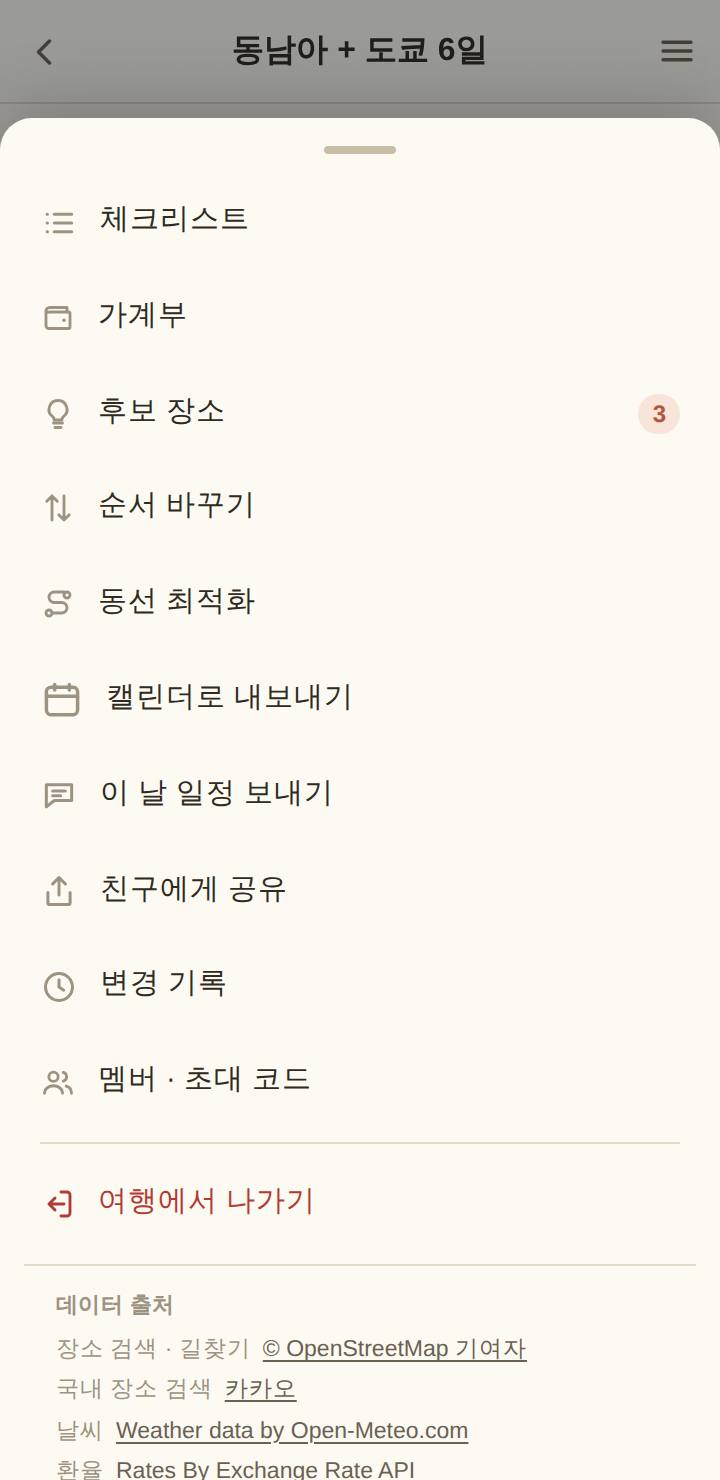
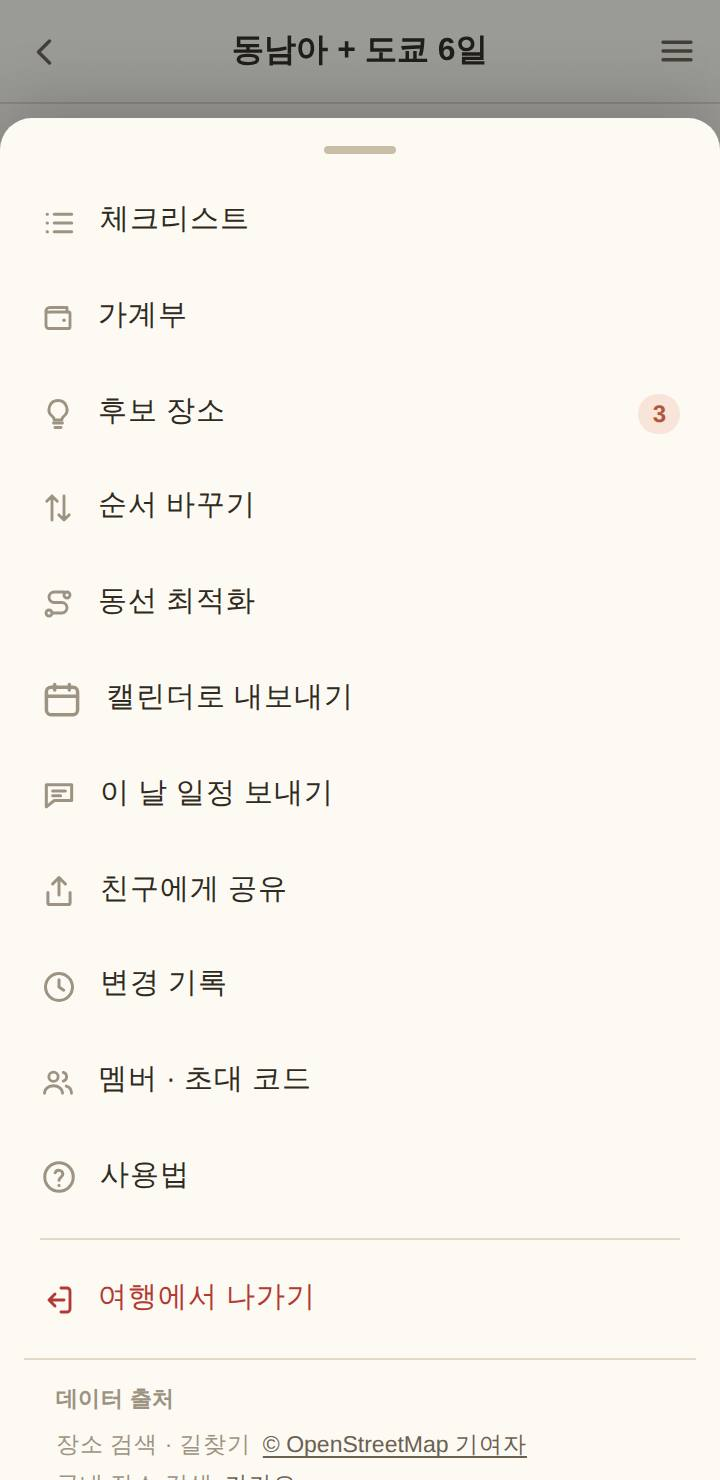
쓰는 중에도 사용법 — 홈 왼쪽 위 ? 버튼, 일정 메뉴에 「사용법」
- 지금까지 로그인 뒤에는 프로필 맨 아래 링크뿐이라 찾기 어려웠다
- 홈(과 여행 없을 때 일정·지도 빈 화면) 머리글 왼쪽 빈 칸에 ? 버튼
- 일정 화면 메뉴(≡) → 「사용법」
- 사용법 "알아 두면 좋은 것" 맨 앞에 다시 보는 방법(한·영·일, GUIDE.md)
- 바뀐 화면이 들어간 그림 6·7번 다시 찍음

Claude-Session: https://claude.ai/code/session_01UjFPAbSqPRgJ8H9rtaNjr3

Changed region(s): [[0.0611, 0.777, 0.7333, 1.0]]

diff --git a/src/components/AppHeader.tsx b/src/components/AppHeader.tsx
@@ -1,6 +1,6 @@
 import { useNavigate } from 'react-router-dom';
 import { useT } from '@/i18n';
-import { ChevronLeft, Menu, UserIcon } from './icons';
+import { ChevronLeft, HelpIcon, Menu, UserIcon } from './icons';
 
 interface Props {
   title: string;
@@ -18,9 +18,14 @@ interface Props {
    * '여행자'면 '여' 한 글자만 떠서 무슨 버튼인지 알 수 없었다.
    */
   onProfile?: () => void;
+  /**
+   * 왼쪽 사용법(?) 버튼. 뒤로가기가 없는 화면(홈 등)의 빈 왼쪽 칸에 둔다 — 쓰다가 막히면
+   * 바로 찾을 수 있게. 프로필 맨 아래 링크만으로는 아무도 못 찾는다.
+   */
+  onHelp?: () => void;
 }
 
-export function AppHeader({ title, back = false, onMenu, action, onProfile }: Props) {
+export function AppHeader({ title, back = false, onMenu, action, onProfile, onHelp }: Props) {
   const navigate = useNavigate();
   const t = useT();
 
@@ -42,6 +47,10 @@ export function AppHeader({ title, back = false, onMenu, action, onProfile }: Pr
       {back ? (
         <button className="header__btn" onClick={goBack} aria-label={t.common.back}>
           <ChevronLeft />
+        </button>
+      ) : onHelp ? (
+        <button className="header__btn" onClick={onHelp} aria-label={t.guide.title}>
+          <HelpIcon />
         </button>
       ) : (
         <span />

diff --git a/src/screens/TabFallbackScreen.tsx b/src/screens/TabFallbackScreen.tsx
@@ -6,7 +6,7 @@
  * 누른 경우다. 여행이 없으면 탭을 막는 대신 왜 비었는지와 할 일을 보여준다.
  */
 
-import { Navigate } from 'react-router-dom';
+import { Navigate, useNavigate } from 'react-router-dom';
 import { AppHeader } from '@/components/AppHeader';
 import { BottomTabs, tabTrip } from '@/components/BottomTabs';
 import { StartCard } from '@/components/StartCard';
@@ -16,6 +16,7 @@ import { useTripStore } from '@/store/tripStore';
 
 export function TabFallbackScreen({ kind }: { kind: 'schedule' | 'map' }) {
   const t = useT();
+  const navigate = useNavigate();
   const trips = useTripStore((s) => s.trips);
   const loading = useTripStore((s) => s.loading);
 
@@ -28,7 +29,10 @@ export function TabFallbackScreen({ kind }: { kind: 'schedule' | 'map' }) {
 
   return (
     <div className="app">
-      <AppHeader title={kind === 'map' ? t.map.title : t.trip.title} />
+      <AppHeader
+        title={kind === 'map' ? t.map.title : t.trip.title}
+        onHelp={() => navigate('/guide')}
+      />
       <main className="main">
         {loading ? (
           <p className="empty">{t.common.loading}</p>

diff --git a/src/i18n/messages/ja.ts b/src/i18n/messages/ja.ts
@@ -168,6 +168,10 @@ export const ja: Messages = {
     tipsTitle: '知っておくと便利なこと',
     tips: [
       {
+        q: 'この使い方をもう一度見るには',
+        a: 'ホーム左上の ? ボタン、予定画面のメニュー(≡) →「使い方」、プロフィール下の「使い方」からいつでも開けます。',
+      },
+      {
         q: 'アプリのように使いたい',
         a: 'ホーム画面に追加してください。iPhoneはSafariの共有ボタン →「ホーム画面に追加」、AndroidはChromeのメニュー(⋮) →「ホーム画面に追加」(または「アプリをインストール」)。',
       },

diff --git a/src/screens/TripScreen.tsx b/src/screens/TripScreen.tsx
@@ -17,6 +17,7 @@ import {
   ClockIcon,
   FerryIcon,
   GripIcon,
+  HelpIcon,
   LeaveIcon,
   ListIcon,
   PencilIcon,
@@ -667,6 +668,17 @@ export function TripScreen() {
         >
           <UsersIcon />
           {t.trip.menuMembers}
+        </button>
+        {/* 쓰다가 막혔을 때 — 홈 왼쪽 위 ?와 같은 곳 */}
+        <button
+          className="sheet__item"
+          onClick={() => {
+            setMenuOpen(false);
+            navigate('/guide');
+          }}
+        >
+          <HelpIcon size={19} />
+          {t.guide.title}
         </button>
 
         <div className="sheet__sep" />

diff --git a/src/i18n/messages/ko.ts b/src/i18n/messages/ko.ts
@@ -187,6 +187,10 @@ export const ko = {
     tipsTitle: '알아 두면 좋은 것',
     tips: [
       {
+        q: '이 사용법을 다시 보려면',
+        a: '홈 왼쪽 위 ? 버튼, 일정 화면 메뉴(≡) → 「사용법」, 프로필 아래 「사용법」에서 언제든 열 수 있어요.',
+      },
+      {
         q: '앱처럼 쓰고 싶어요',
         a: '홈 화면에 추가하세요. 아이폰은 사파리 공유 버튼 → 「홈 화면에 추가」, 안드로이드는 크롬 메뉴(⋮) → 「홈 화면에 추가」(또는 「앱 설치」).',
       },

diff --git a/src/i18n/messages/en.ts b/src/i18n/messages/en.ts
@@ -169,6 +169,10 @@ export const en: Messages = {
     tipsTitle: 'Good to know',
     tips: [
       {
+        q: 'How do I find this guide again?',
+        a: 'Tap ? at the top left of Home, open the menu (≡) on the plan screen → “How to use”, or use “How to use” at the bottom of your profile.',
+      },
+      {
         q: 'Can I use it like an app?',
         a: 'Add it to your home screen. iPhone: Safari’s Share button → “Add to Home Screen”. Android: Chrome menu (⋮) → “Add to Home screen” (or “Install app”).',
       },

diff --git a/src/components/icons.tsx b/src/components/icons.tsx
@@ -222,6 +222,15 @@ export const AppleIcon = ({ size = 17, className }: IconProps) => (
   </svg>
 );
 
+/** 물음표 동그라미 — 사용법 */
+export const HelpIcon = ({ size = 21, className }: IconProps) => (
+  <svg {...base(size, className)}>
+    <circle cx="12" cy="12" r="9" />
+    <path d="M9.6 9.3a2.5 2.5 0 014.8 1c0 1.7-2.4 2.2-2.4 3.7" />
+    <path d="M12 17.2v.1" />
+  </svg>
+);
+
 export const UserIcon = ({ size = 19, className }: IconProps) => (
   <svg {...base(size, className)}>
     <circle cx="12" cy="8" r="3.4" />

diff --git a/src/screens/HomeScreen.tsx b/src/screens/HomeScreen.tsx
@@ -137,7 +137,11 @@ export function HomeScreen() {
 
   return (
     <div className="app">
-      <AppHeader title={t.home.title} onProfile={() => navigate('/profile')} />
+      <AppHeader
+        title={t.home.title}
+        onProfile={() => navigate('/profile')}
+        onHelp={() => navigate('/guide')}
+      />
 
       <main className="main">
         {/* 여행 중일 때만 그려진다 */}

diff --git a/docs/STATUS.md b/docs/STATUS.md
@@ -87,7 +87,14 @@
 
 ## ✅ 된 것
 
-### 표지 · 사용법 · 홈 개선 — 2026-09-30 (브랜치 `claude/hopeful-bohr-i6radh`, 머지 전)
+### 쓰는 중에도 사용법 — 2026-09-30 (브랜치 `claude/hopeful-bohr-i6radh`, 머지 전)
+- 홈 왼쪽 위 **?** 버튼(여행 없을 때 일정·지도 빈 화면도), 일정 화면 메뉴(≡) → 「사용법」. 프로필 링크는 그대로
+- 사용법 "알아 두면 좋은 것" 맨 앞에 "다시 보려면" — 위 세 곳. 그림 6·7번(메뉴·홈) 다시 찍음
+- #37 머지 후 "사용법으로 안 넘어간다"는 제보: 배포용 빌드(로그인 전·후 흉내)에서 링크 3곳·주소 직접 입력 모두
+  열림 — 머지 전 코드가 떠 있던 탭·홈 화면 앱일 가능성(해시만 바뀌면 새로 읽지 않아 옛 코드가 홈으로 보냄).
+  앱을 완전히 닫고 다시 열어 확인 필요
+
+### 표지 · 사용법 · 홈 개선 — 2026-09-30 (PR #37, main에 머지됨)
 레퍼런스: 탭 바 가이드(Smashing·UX Planet — 탭을 숨기거나 막지 말고 빈 화면에서 이유와 할 일),
 트리플(D-day 가까운 여행 중심), Wanderlog(긴 온보딩으로 이탈 → 여러 장 튜토리얼 대신 한 화면 표지)
 - **일정·지도 탭이 홈에서 안 눌리던 것**: 여행 밖에서는 두 탭이 홈을 가리켜 눌러도 아무 일이 없었다.

diff --git a/docs/GUIDE.md b/docs/GUIDE.md
@@ -66,6 +66,9 @@
 
 ## 알아 두면 좋은 것
 
+**이 사용법을 다시 보려면**
+홈 왼쪽 위 ? 버튼, 일정 화면 메뉴(≡) → 「사용법」, 프로필 아래 「사용법」에서 언제든 열 수 있어요.
+
 **앱처럼 쓰고 싶어요**
 홈 화면에 추가하세요. 아이폰은 사파리 공유 버튼 → 「홈 화면에 추가」, 안드로이드는 크롬 메뉴(⋮) →
 「홈 화면에 추가」(또는 「앱 설치」).
